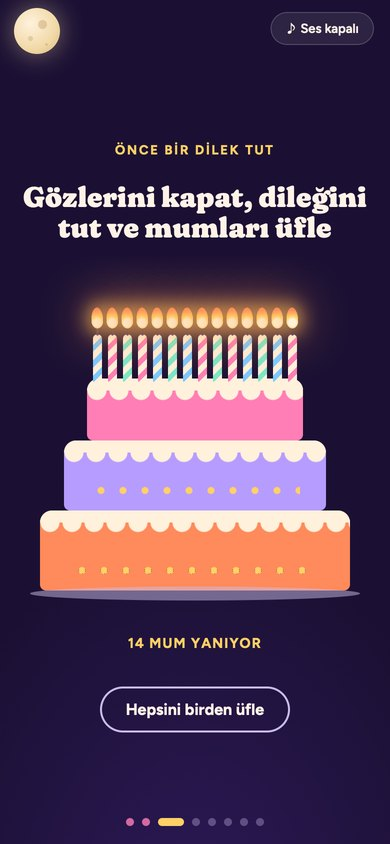
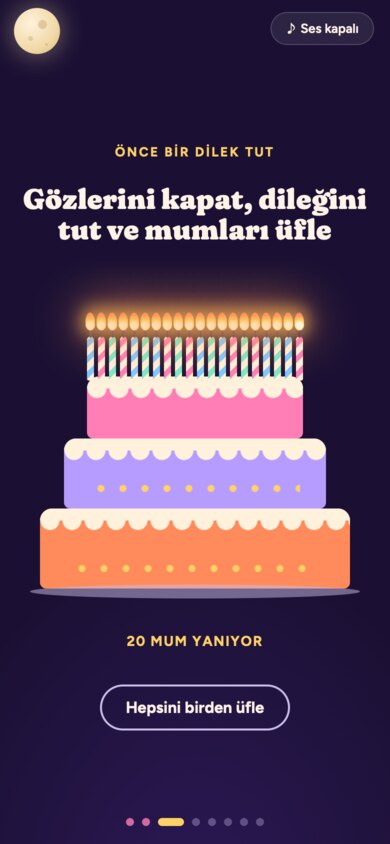
README and images for the new sample content and creator page
Rewrites the personalisation and publishing sections around the creator
page, and retakes the scene screenshots, demo GIF and banners.

diff --git a/README.md b/README.md
@@ -7,7 +7,7 @@
 
 <div align="center">
 
-**[🎉 Canlı demo](https://yigitbuyukeren.com/dogum-gunu/)** &nbsp;·&nbsp; **[✏ Kendi sürümünü hazırla](#-kişiselleştirme)** &nbsp;·&nbsp; **[💗 Kalp QR kod](#-kalp-şeklinde-qr-kod)**
+**[🎉 Canlı demo](https://yigitbuyukeren.com/dogum-gunu/)** &nbsp;·&nbsp; **[✏ Kendi sürprizini oluştur](https://yigitbuyukeren.com/dogum-gunu/olustur/)** &nbsp;·&nbsp; **[💗 Kalp QR kod](#-kalp-şeklinde-qr-kod)**
 
 [![Lisans: MIT](https://img.shields.io/badge/lisans-MIT-E8480C?style=flat-square&labelColor=16150F)](LICENSE)
 ![Tek dosya](https://img.shields.io/badge/tek-HTML%20dosyas%C4%B1-E8480C?style=flat-square&labelColor=16150F&logo=html5&logoColor=E34F26)
@@ -28,7 +28,9 @@
 Sevdiğin birine hazırlayabileceğin, animasyonlu ve interaktif bir doğum günü sayfası. **Tek bir HTML dosyası, kurulum gerektirmez.** Telefonda da bilgisayarda da çalışır.
 
 > [!TIP]
-> [Canlı demoyu](https://yigitbuyukeren.com/dogum-gunu/) aç. Girişteki "Doğum günün hangi gün?" sorusunun cevabı: **14 Şubat**.
+> [Canlı demoyu](https://yigitbuyukeren.com/dogum-gunu/) aç. Girişteki "Doğum günün hangi gün?" sorusunun cevabı: **14 Mayıs**.
+>
+> Kendi sürümünü kod yazmadan hazırlamak için **[oluşturma sayfasına](https://yigitbuyukeren.com/dogum-gunu/olustur/)** git.
 
 ### 📸 Sahneler
 
@@ -51,7 +53,7 @@ Sayfa sekiz sahneden oluşuyor:
 
 1. 🔒 **Giriş kapısı.** "Doğum günün hangi gün?" sorusu. Yanlış cevapta ipuçları doğum tarihinden kendiliğinden oluşur.
 2. 🎁 **Hediye kutusu.** Üç dokunuşta açılır. Altından canlı bir sayaç çıkar: dünyada geçirilen saniyeler, Dünya'nın güneş etrafındaki tur sayısı, uzayda alınan yol, görülen dolunaylar ve doğulan günün hangi gün olduğu.
-3. 🎂 **Pasta ve dilek feneri.** Yaşı kadar mum üflenir, sonra yazılan dilek bir fenerle gökyüzüne yükselir. Dilek hiçbir yere gönderilmez.
+3. 🎂 **Pasta ve dilek feneri.** Yaşı kadar mum (en çok 20) üflenir, sonra yazılan dilek bir fenerle gökyüzüne yükselir. Dilek hiçbir yere gönderilmez.
 4. 🐚 **Deniz kabukları.** Her kabuğun altında bir inci ve bir iltifat var.
 5. 🎟 **Kazı kazan.** Altından bir hediye kuponu çıkar.
 6. 🍾 **Şişedeki mesaj.** Dalgaların arasından gelen şişeden harf harf yazılan bir mektup çıkar.
@@ -62,34 +64,43 @@ Sayfa sekiz sahneden oluşuyor:
 
 🎵 Müzik ve ses efektleri tarayıcıda üretilir (Web Audio), dışarıdan dosya yüklenmez.
 
-### ✏ Kişiselleştirme
+### ✏ Kendi sürprizini oluştur
 
-Her şey `index.html` içindeki `CONFIG` nesnesinden ayarlanır:
+**Kod yazmadan:** [Oluşturma sayfasını](https://yigitbuyukeren.com/dogum-gunu/olustur/) aç, adı, doğum tarihini ve kendi cümlelerini yaz, **Sürprizi indir**'e bas. Elinde ayarları içine gömülmüş tek bir `.html` dosyası olur. Hiçbir şey kaydedilmez ve sunucuya gönderilmez, her şey tarayıcında olur. Sayfadaki **Önizle** düğmesi ve sahne düğmeleriyle mektubu, kabukları, kuponu ve finali göndermeden önce görebilirsin.
+
+**Elle:** Aynı ayarlar `index.html` içindeki `CONFIG` nesnesinde durur (`CONFIG:BASLA` ve `CONFIG:BITIR` işaretleri arası). Metinlerde `{isim}` ve `{yas}` yazarsan kendiliğinden dolar.
 
 | Alan | Ne işe yarar |
 |---|---|
-| `name` | Adı. Yıldızlar bu adı yazar (Türk alfabesinin bütün harfleri desteklenir). |
+| `name` | Adı. Yıldızlar bu adı yazar (Türk alfabesinin ve Q, W, X harflerinin hepsi desteklenir). |
 | `birth` | Doğum tarihi. Giriş sorusu, ipuçları, sayaç ve ay evresi buna göre hesaplanır. |
-| `age`, `candles` | Boş bırakılırsa bu yılki yaş ve o kadar mum kullanılır. |
-| `star` | Finalde gösterilen yıldız. Yaşına yakın uzaklıkta (ışık yılı) bir yıldız seçersen "doğduğun gün yola çıkan ışık şimdi ulaşıyor" mesajı anlamlı olur. |
-| `reasons` | Deniz kabuklarından çıkan cümleler. |
+| `age`, `candles` | Boş bırakılırsa bu yılki yaş ve o kadar mum (en çok 20) kullanılır. |
+| `star` | Boş bırakılırsa yaşına en yakın uzaklıktaki ünlü bir yıldız seçilir ("doğduğun gün yola çıkan ışık şimdi ulaşıyor"). Elle: `{ name: "Vega", ly: 25 }`. |
+| `reasons` | Deniz kabuklarından çıkan cümleler (3 ile 10 arası). |
 | `coupon` | Kazı kazandan çıkan kupon. |
-| `letter` | Mektup. `null` bırakılırsa örnek mektup kullanılır. |
+| `letter`, `signature` | Şişedeki mektup ve imzası. |
 | `openWhen` | "Ne zaman ihtiyacın olursa aç" zarfları. |
-| `signature` | Mektubun imzası. |
+| `texts` | Sayfadaki başlıklar ve ara cümleler (kutlama cümlesi dahil). |
 
 💡 En güzel sonuç, mektuba ve kabuklara kendi cümlelerini yazınca çıkar.
 
 ### 🚀 Yayınlama
 
-Dosyayı doğrudan tarayıcıda açabilirsin. Paylaşmak için GitHub Pages kullanabilirsin:
+İndirdiğin dosyayı çift tıklayıp doğrudan tarayıcıda açabilirsin. Bir adres olarak paylaşmak için:
 
-1. Bu depoyu kendi hesabına fork'la.
-2. **Settings → Pages** bölümünde kaynak olarak `main` dalını seç.
-3. Birkaç dakika sonra sayfan `https://kullanici-adin.github.io/dogum-gunu-surprizi/` adresinde yayında olur.
+- **GitHub Pages:** Yeni bir depo aç, dosyayı `index.html` adıyla yükle, **Settings → Pages** bölümünde `main` dalını seç. Birkaç dakika sonra `https://kullanici-adin.github.io/depo-adi/` adresinde yayında olur.
+- **Sürükle-bırak servisleri:** Dosyanın bulunduğu klasörü Netlify Drop, Cloudflare Pages gibi servislere bırakmak yeter. Koşulları servise göre değişir.
 
 > [!WARNING]
-> **Gizlilik:** Açık bir depoya gerçek isim, doğum tarihi ya da kişisel bir mektup koyarsan bunları herkes görebilir. Kişisel sürümünü gizli (private) bir depoda tut ya da başka bir yerde yayınla.
+> **Gizlilik:** Açık bir depoya gerçek isim, doğum tarihi ya da kişisel bir mektup koyarsan bunları herkes görebilir. Kişiselleştirilmiş dosyayı gizli (private) bir depoda tut, dosya olarak gönder ya da adresi kimseyle paylaşma.
+
+### 🛠 Geliştirme
+
+`olustur/index.html`, `tools/olustur.src.html` ile kökteki `index.html` (şablon) birleştirilerek üretilir. Şablonu ya da oluşturma sayfasını değiştirince yeniden üret:
+
+```bash
+python3 tools/build-olustur.py
+```
 
 ### 💗 Kalp şeklinde QR kod
 
@@ -99,7 +110,7 @@ Dosyayı doğrudan tarayıcıda açabilirsin. Paylaşmak için GitHub Pages kull
 
 ```bash
 pip install qrcode pillow
-python3 tools/kalp-qr.py https://site-adresin -o kalp-qr.png -t "Ada için"
+python3 tools/kalp-qr.py https://site-adresin -o kalp-qr.png -t "Defne için"
 ```
 
 🖨 Basarken en az 5 cm genişlik ve açık renkli bir kağıt kullan. Yandaki örnek telefonla okutulabilir; canlı demoyu açar.
@@ -118,13 +129,13 @@ python3 tools/kalp-qr.py https://site-adresin -o kalp-qr.png -t "Ada için"
 An animated, interactive birthday page you can prepare for someone you love. **A single HTML file, no install.** Works on phones and computers. The page itself is in Turkish.
 
 > [!TIP]
-> Open the [live demo](https://yigitbuyukeren.com/dogum-gunu/). The answer to the entry question ("When is your birthday?") is **14 February**.
+> Open the [live demo](https://yigitbuyukeren.com/dogum-gunu/). The answer to the entry question ("When is your birthday?") is **14 May**. To make your own without writing code, use the [creator page](https://yigitbuyukeren.com/dogum-gunu/olustur/).
 
-**Eight scenes:** 🔒 an entry gate that builds hints from the birth date · 🎁 a gift box that opens after three taps and reveals a live counter (seconds alive, trips around the sun, distance travelled through space, full moons seen) · 🎂 candles to blow out and a wish lantern · 🐚 seashells hiding pearls and compliments · 🎟 a scratch card with a gift coupon · 🍾 a message in a bottle typed letter by letter · 💌 "open when you need it" cards · 🎆 a finale with fireworks, the name written in the stars, a sunrise and a bouquet. 🌙 Tap the moon five times to see the moon phase on the night they were born.
+**Eight scenes:** 🔒 an entry gate that builds hints from the birth date · 🎁 a gift box that opens after three taps and reveals a live counter (seconds alive, trips around the sun, distance travelled through space, full moons seen) · 🎂 candles to blow out (up to 20) and a wish lantern · 🐚 seashells hiding pearls and compliments · 🎟 a scratch card with a gift coupon · 🍾 a message in a bottle typed letter by letter · 💌 "open when you need it" cards · 🎆 a finale with fireworks, the name written in the stars, a sunrise and a bouquet. 🌙 Tap the moon five times to see the moon phase on the night they were born.
 
-**Make it yours:** everything lives in the `CONFIG` object in `index.html` (name, birth date, age, a star at the right distance in light years, compliments, coupon, letter, "open when" notes, signature). Music and sound effects are generated in the browser with Web Audio; nothing is loaded from outside.
+**Make it yours:** open the [creator page](https://yigitbuyukeren.com/dogum-gunu/olustur/), fill in the name, birth date and your own words, and download a ready-made single `.html` file. Nothing is saved or sent anywhere; it all happens in your browser. You can also edit the `CONFIG` object in `index.html` by hand (use `{isim}` and `{yas}` as placeholders for the name and age). The star is picked automatically from the age if you leave it empty. Music and sound effects are generated in the browser with Web Audio; the only outside request is the Google Fonts stylesheet.
 
-**Share it:** fork the repository and turn on GitHub Pages, or host the file anywhere. Keep personal versions in a private repository. `tools/kalp-qr.py` turns the address into a heart-shaped QR code that still scans.
+**Share it:** send the file, or put it on GitHub Pages or any static host. Keep personal versions out of public repositories. `tools/kalp-qr.py` turns the address into a heart-shaped QR code that still scans.
 
 Released under the [MIT License](LICENSE).
 
